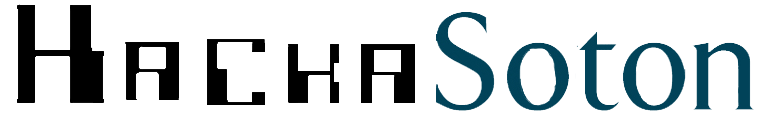
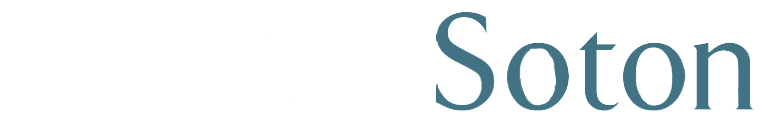
commit

Changed region(s): [[0.5735, 0.1026, 0.9961, 0.9487], [0.0, 0.0256, 0.2415, 0.8974], [0.2717, 0.3333, 0.5433, 0.8974]]

diff --git a/css/home.sass b/css/home.sass
@@ -29,7 +29,7 @@ body
 
 #hackasoton-logo
 	:text-indent -10000px
-	:background-image url(../images/hackasoton-white.png)
+	:background-image url(../images/hackasoton-all-white.png)
 	:background-repeat no-repeat
 	:background-size contain
 	:position absolute
